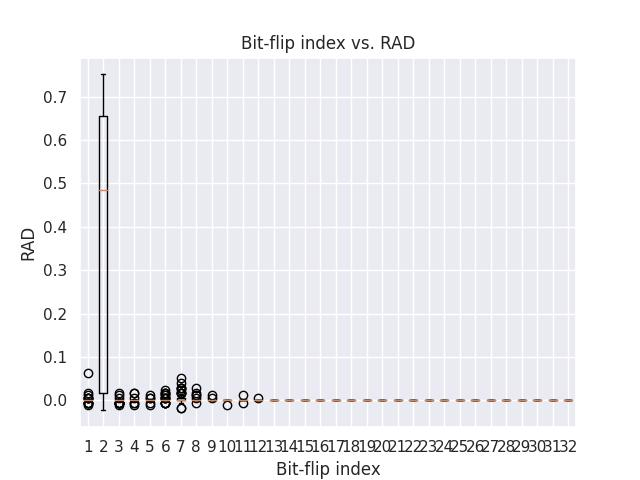
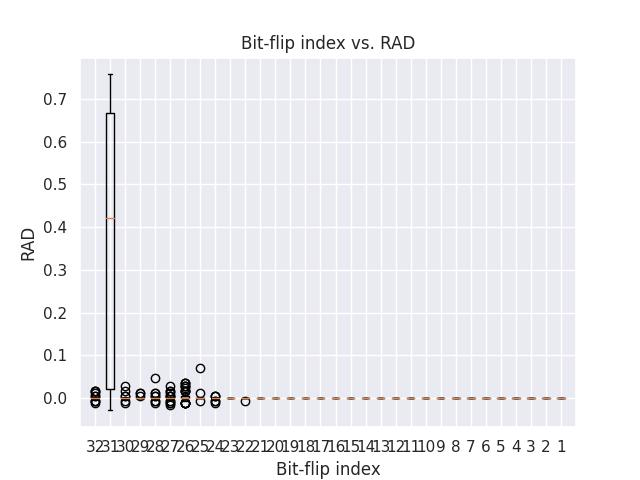
bit flip fix

diff --git a/utils.py b/utils.py
@@ -122,7 +122,7 @@ def binary(num):
     binary representation (in big-endian, where the string only
     contains '0' and '1' characters).
     """
-    return ''.join('{:0>8b}'.format(c) for c in struct.pack('!f', num))
+    return ''.join('{:0>8b}'.format(c) for c in struct.pack('!f', num))[::-1]
 
 def float32(binary):
     """
@@ -130,7 +130,7 @@ def float32(binary):
     binary representations of float32 numbers into float32 and returns the
     result.
     """
-    return struct.unpack('!f',struct.pack('!I', int(binary, 2)))[0]
+    return struct.unpack('!f',struct.pack('!I', int(binary[::-1], 2)))[0]
 
 def random_bit_flip(w):
     """

diff --git a/attacks.py b/attacks.py
@@ -144,7 +144,6 @@ class NESBBoxPGDAttack:
             x = x + torch.empty_like(x).uniform_(-self.eps, self.eps)
             x = torch.clip(x, 0, 1)
         for i in range(self.n):
-            # print(i)
             outputs = self.model(x)
             if self.early_stop:
                 outputs_ids = outputs.argmax(dim=1)

diff --git a/main_c.py b/main_c.py
@@ -63,6 +63,7 @@ plt.figure()
 plt.boxplot([RADs_bf_idx[bf_idx] for bf_idx in range(len(RADs_bf_idx))])
 plt.xlabel('Bit-flip index')
 plt.ylabel('RAD')
+plt.xlim(len(RADs_bf_idx)+1, 0)
 plt.title('Bit-flip index vs. RAD')
 plt.show()
 plt.savefig('bf_idx-vs-RAD.jpg')
